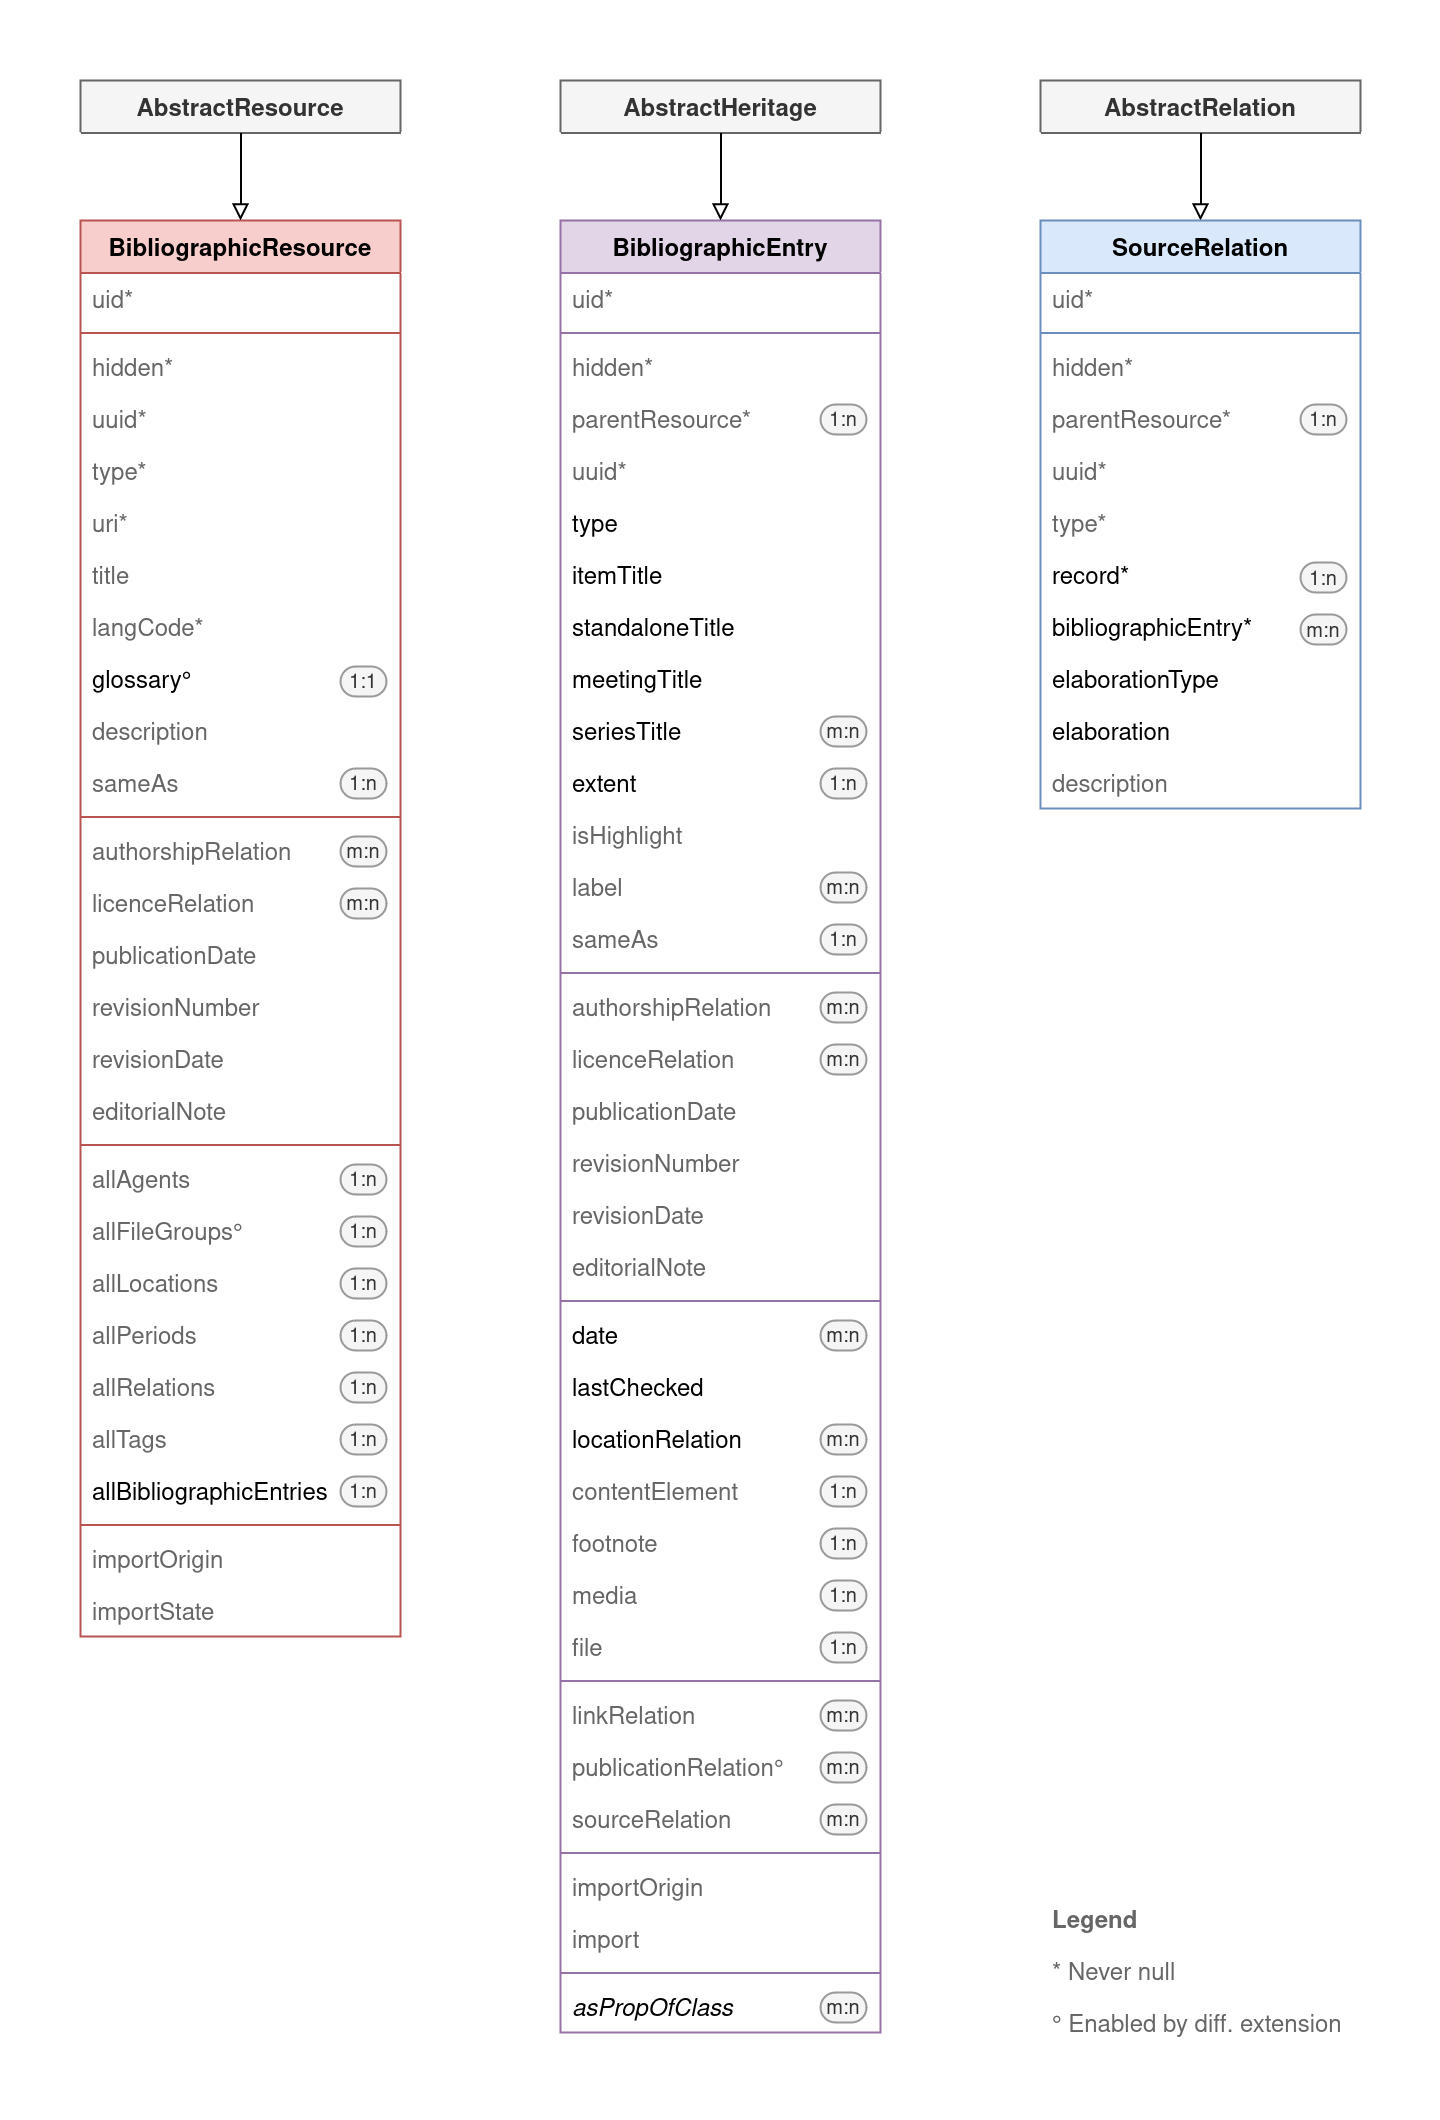
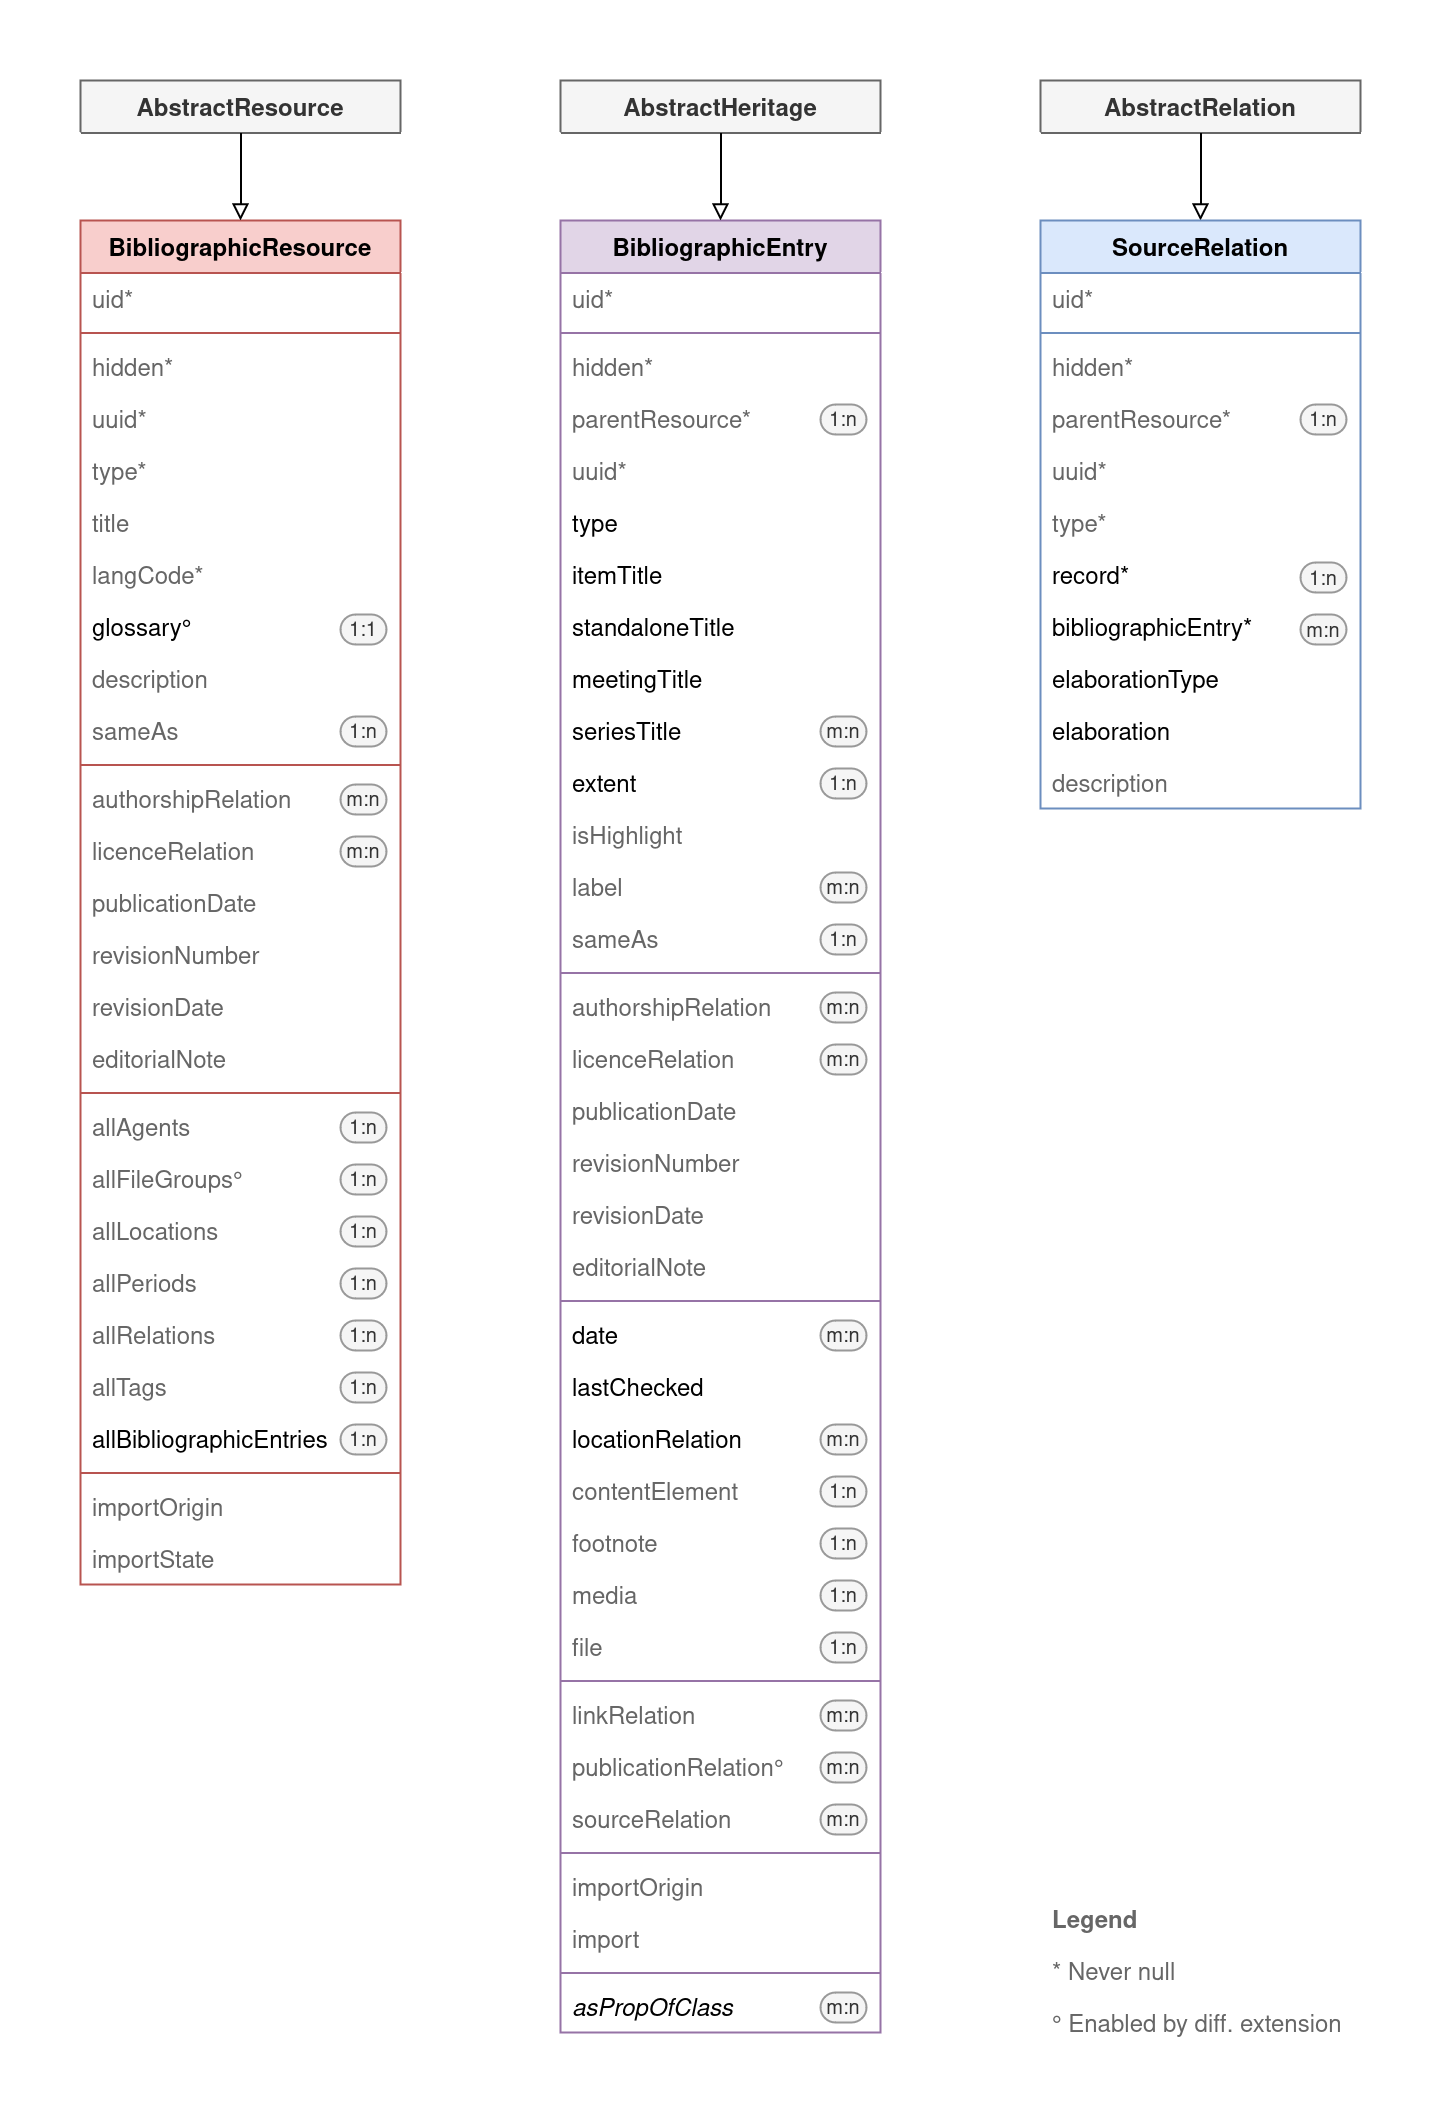
Remove uri property from resources

Changed region(s): [[0.0625, 0.2491, 0.2812, 0.7783], [0.2188, 0.3113, 0.2812, 0.4358], [0.25, 0.7472, 0.2812, 0.7783]]

diff --git a/Configuration/TCA/Overrides/tx_chfbase_domain_model_resource.php b/Configuration/TCA/Overrides/tx_chfbase_domain_model_resource.php
@@ -57,7 +57,7 @@ defined('TYPO3') or die();
 // Add type 'bibliographicResource' and its 'showitem' list
 \TYPO3\CMS\Core\Utility\ExtensionManagementUtility::addToAllTCAtypes(
    'tx_chfbase_domain_model_resource',
-   'hiddenUuid,typeUri,titleLangCode,glossary,description,sameAs,
+   'hidden,uuidType,titleLangCode,glossary,description,sameAs,
    --div--;LLL:EXT:chf_base/Resources/Private/Language/locallang.xlf:object.generic.editorial,authorshipRelation,licenceRelation,publicationDateRevisionNumberRevisionDate,editorialNote,
    --div--;LLL:EXT:chf_base/Resources/Private/Language/locallang.xlf:object.generic.content,allAgents,allFileGroups,allLocations,allPeriods,allRelations,allTags,allBibliographicEntries,
    --div--;LLL:EXT:chf_base/Resources/Private/Language/locallang.xlf:object.generic.import,importOrigin,importState,',
